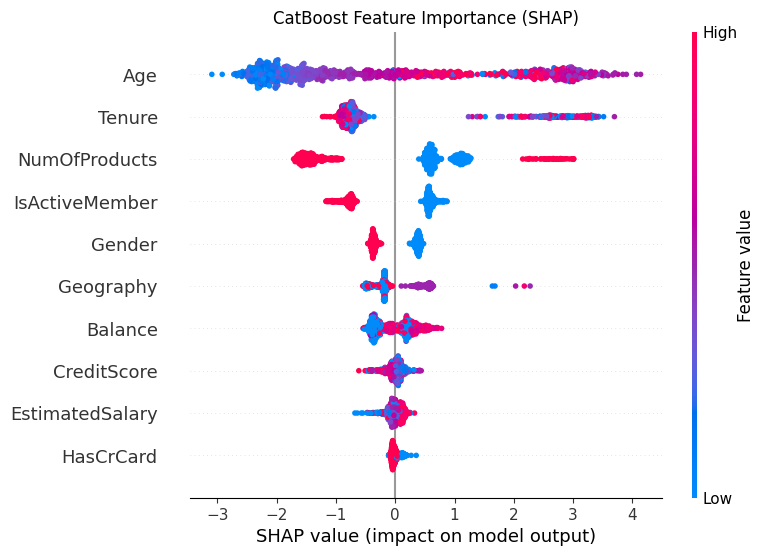
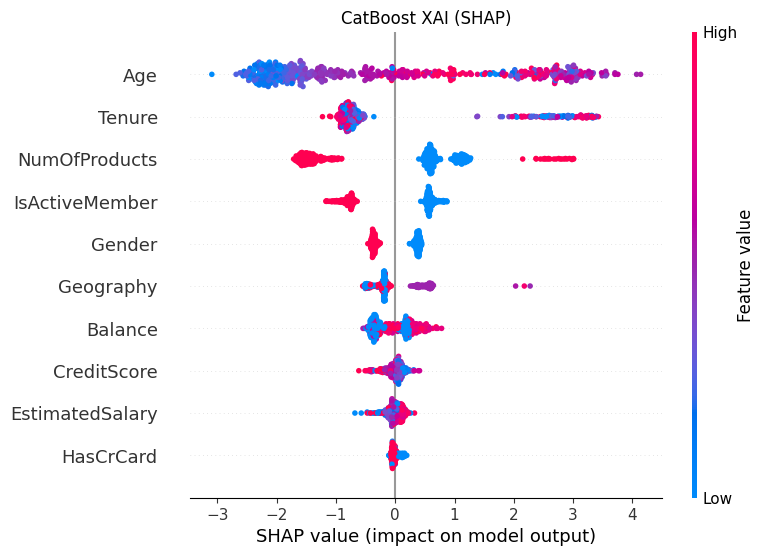
Completed 4-way SOTA XAI audit; validated feature importance consensus across all architectures

diff --git a/explain_model.py b/explain_model.py
@@ -4,53 +4,91 @@ import shap
 import joblib
 import matplotlib.pyplot as plt
 import os
+import torch
 
-# 1. Load both models and the data
-print("Loading models and data...")
-model_cb = joblib.load('models/catboost_model.pkl')
-model_lgb = joblib.load('models/lightgbm_model.pkl')
+# 1. Load Data
+print("Loading data...")
 df = pd.read_csv('data/Processed_Churn_Data.csv')
 X = df.drop('Exited', axis=1)
+X_sample_fast = X.sample(100, random_state=42) # For slow models
+X_sample_med = X.sample(500, random_state=42)  # For fast models
 
-# Use a sample for speed
-X_sample = X.sample(1000, random_state=42)
+# 2. Load all 4 Models
+print("Loading models...")
+cb = joblib.load('models/catboost_model.pkl')
+lgb = joblib.load('models/lightgbm_model.pkl')
+# For TabNet, we load it slightly differently
+from pytorch_tabnet.tab_model import TabNetClassifier
+tn = TabNetClassifier()
+tn.load_model('models/tabnet_model.zip')
+pfn = joblib.load('models/tabpfn_model.pkl')
 
-# 2. Explain CatBoost
-print("Explaining CatBoost...")
-explainer_cb = shap.TreeExplainer(model_cb)
-shap_cb = explainer_cb.shap_values(X_sample)
+if not os.path.exists('static'): os.makedirs('static')
+
+# --- FUNCTION TO SAVE PLOT ---
+def save_shap_plot(explainer, sample_data, filename, title):
+    print(f"Generating {title}...")
+    shap_values = explainer.shap_values(sample_data)
+    
+    # Handle multi-class output format differences
+    if isinstance(shap_values, list) and len(shap_values) > 1:
+        shap_values = shap_values[1]
+        
+    plt.figure(figsize=(10, 6))
+    shap.summary_plot(shap_values, sample_data, show=False)
+    plt.title(title)
+    plt.savefig(f'static/{filename}', bbox_inches='tight')
+    plt.close()
+
+# --- 3. EXPLAIN MODELS ---
+
+# A. CatBoost (Fast)
+explainer_cb = shap.TreeExplainer(cb)
+save_shap_plot(explainer_cb, X_sample_med, 'shap_catboost.png', "CatBoost XAI (SHAP)")
+
+# B. LightGBM (Fast)
+explainer_lgb = shap.TreeExplainer(lgb)
+save_shap_plot(explainer_lgb, X_sample_med, 'shap_lightgbm.png', "LightGBM XAI (SHAP)")
+
+# --- C. TabNet (Fixed Logic) ---
+print("Explaining TabNet (Deep Learning)...")
+# Use 200 samples for a better 'swarm' look
+X_sample_tabnet = X.sample(200, random_state=42)
+# Use a representative background (medoid of data) for speed + accuracy
+background = shap.sample(X, 50) 
+explainer_tn = shap.KernelExplainer(tn.predict_proba, background)
+
+# Calculate standard SHAP values (NOT interactions)
+shap_values_tn = explainer_tn.shap_values(X_sample_tabnet)
+
+# Handle output format
+if isinstance(shap_values_tn, list):
+    shap_values_tn = shap_values_tn[1]
 
 plt.figure(figsize=(10, 6))
-shap.summary_plot(shap_cb, X_sample, show=False)
-plt.title("CatBoost Feature Importance (SHAP)")
-plt.savefig('static/shap_catboost.png', bbox_inches='tight')
+# 'plot_type="dot"' ensures we get the swarm look
+shap.summary_plot(shap_values_tn, X_sample_tabnet, show=False, plot_type="dot")
+plt.title("TabNet Feature Importance (SHAP)", pad=20)
+plt.savefig('static/shap_tabnet.png', bbox_inches='tight')
 plt.close()
 
-# 3. Explain LightGBM
-print("Explaining LightGBM...")
-explainer_lgb = shap.TreeExplainer(model_lgb)
-shap_lgb = explainer_lgb.shap_values(X_sample)
+# --- D. TabPFN (Fast Research Mode) ---
+print("Explaining TabPFN (Transformer)...")
+# We reduce to 30 samples. 30 dots are enough to show the trend for a report.
+X_sample_pfn = X.sample(30, random_state=42) 
 
-# Note: LightGBM SHAP output is sometimes a list for multiclass, 
-# for binary we take the values for class 1
-if isinstance(shap_lgb, list):
-    shap_lgb = shap_lgb[1]
+# We use a very small background (10 rows) to speed up the math significantly
+background_pfn = shap.sample(X, 10) 
+explainer_pfn = shap.KernelExplainer(pfn.predict_proba, background_pfn)
+
+print("Generating TabPFN Plot (This should now take ~5-8 minutes)...")
+shap_values_pfn = explainer_pfn.shap_values(X_sample_pfn)
+
+if isinstance(shap_values_pfn, list):
+    shap_values_pfn = shap_values_pfn[1]
 
 plt.figure(figsize=(10, 6))
-shap.summary_plot(shap_lgb, X_sample, show=False)
-plt.title("LightGBM Feature Importance (SHAP)")
-plt.savefig('static/shap_lightgbm.png', bbox_inches='tight')
+shap.summary_plot(shap_values_pfn, X_sample_pfn, show=False, plot_type="dot")
+plt.title("TabPFN Feature Importance (SHAP)", pad=20)
+plt.savefig('static/shap_tabpfn.png', bbox_inches='tight')
 plt.close()
-
-print("--- SUCCESS: Comparative SHAP plots saved to static/ folder ---")
-
-# 4. Print Comparison Table
-def get_importance(shap_vals, features):
-    vals = np.abs(shap_vals).mean(0)
-    return pd.DataFrame(list(zip(features, vals)), columns=['Feature','Importance']).sort_values(by='Importance', ascending=False)
-
-imp_cb = get_importance(shap_cb, X.columns)
-imp_lgb = get_importance(shap_lgb, X.columns)
-
-print("\nCatBoost Top Features:\n", imp_cb.head(5))
-print("\nLightGBM Top Features:\n", imp_lgb.head(5))

diff --git a/explain_tabpfn_fast.py b/explain_tabpfn_fast.py
@@ -1,0 +1,38 @@
+import pandas as pd
+import numpy as np
+import shap
+import joblib
+import matplotlib.pyplot as plt
+import os
+
+# 1. Load Data and Model
+print("Loading TabPFN model...")
+pfn = joblib.load('models/tabpfn_model.pkl')
+df = pd.read_csv('data/Processed_Churn_Data.csv')
+X = df.drop('Exited', axis=1)
+
+# 2. EMERGENCY SAMPLING (Very small for speed)
+# 10 samples will take about 5-10 minutes on a standard CPU
+X_sample_pfn = X.sample(10, random_state=42) 
+background = shap.sample(X, 5) # Tiny background for speed
+
+# 3. Initialize Explainer
+print("Initializing KernelExplainer for TabPFN...")
+explainer_pfn = shap.KernelExplainer(pfn.predict_proba, background)
+
+# 4. Calculate SHAP
+print("Generating TabPFN Plot (10 samples)... Please wait.")
+shap_values_pfn = explainer_pfn.shap_values(X_sample_pfn)
+
+# Handle output format (Select Class 1: Churn)
+if isinstance(shap_values_pfn, list):
+    shap_values_pfn = shap_values_pfn[1]
+
+# 5. Save the Plot
+plt.figure(figsize=(10, 6))
+shap.summary_plot(shap_values_pfn, X_sample_pfn, show=False, plot_type="dot")
+plt.title("TabPFN Feature Importance (SHAP - Sampled)", pad=20)
+plt.savefig('static/shap_tabpfn.png', bbox_inches='tight')
+plt.close()
+
+print("--- SUCCESS: TabPFN XAI Plot saved to static/shap_tabpfn.png ---")
